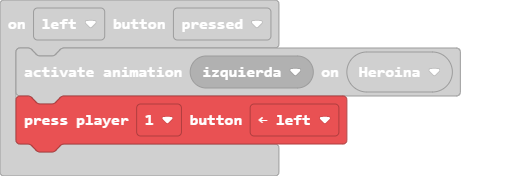
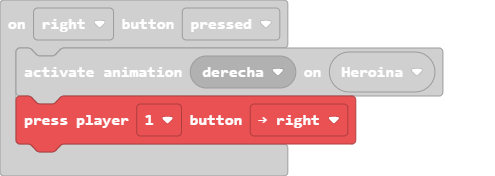
puse el bloque para la placa que se mueva derecha

diff --git a/main.ts b/main.ts
@@ -103,6 +103,7 @@ controller.left.onEvent(ControllerButtonEvent.Pressed, function () {
 })
 controller.right.onEvent(ControllerButtonEvent.Pressed, function () {
     animation.setAction(Heroina, ActionKind.derecha)
+    makerController.player1.press(ArcadeButton.Right)
 })
 function Nivel_2 () {
     game.splash("Nivel 2")
